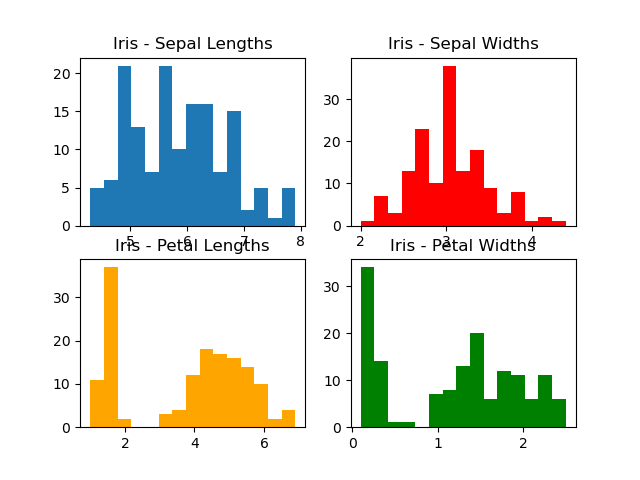
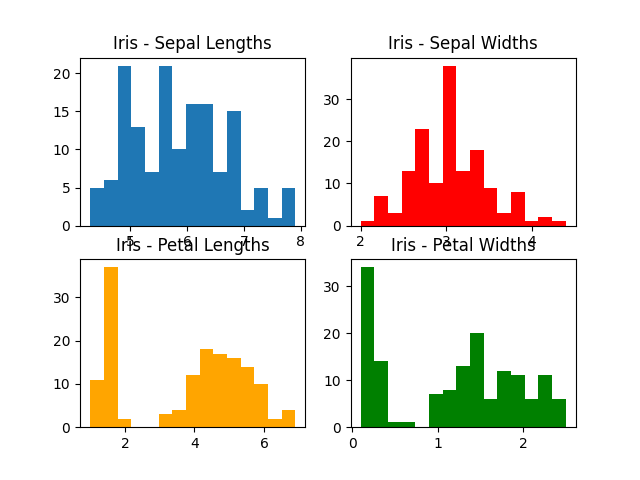
Push after SSH Key Change

diff --git a/analysis.py b/analysis.py
@@ -1,4 +1,4 @@
-# Small Python program to analsyse the variables with the Irish data set for the PandS Project
+# Small Python program to analsyse the variables within the Irish data set for the PandS Project
 # The file created in the output of this program will be called analysis.py and contains a basic summary for each variable
 
 # Author: Brendan Heeney
@@ -8,20 +8,20 @@ import numpy as np
 import matplotlib.pyplot as plt
 import sys
 
-# Importing the Data 
+# Importing the Data - I have a copy of the iris dataset saved in .csv format in my current directory
 
-df = pd.read_csv('iris.csv')
+df = pd.read_csv('iris.csv')   # read_csv will read in the csv file containing the Iris dataset
 
-original_stdout = sys.stdout  
+original_stdout = sys.stdout   # this is telling Python that it needs to find the stdout using the sys module
  
-with open('SummaryOfVariables.txt', 'w') as f:
-    sys.stdout = f 
+with open('SummaryOfVariables.txt', 'w') as f:     # this is creating a new file that we can write to and declaring it as the variable f
+    sys.stdout = f                                  # changes the standard output to the new file which we have created
 
 
-    print("Summary of Variables \n\n")
+    print("Summary of Variables \n\n")          # The \n tells Python to move to next line in the output
 
 
-    print("Variable is petallength")
+    print("Variable = petallength")
     plc = df["petallength"].count()
     print("The number of rows is {}".format(plc))
     typepl = df["petallength"].dtypes
@@ -83,33 +83,46 @@ with open('SummaryOfVariables.txt', 'w') as f:
     print("The count of the Iris-versicolor species is {}".format(countsetosa))
 
 
-    # Reset the standard output
-    sys.stdout = original_stdout 
+    
+    sys.stdout = original_stdout                # Resets the standard output
  
 
 
-plt.subplot(2,2,1)
 
-plt.hist(df['sepallength'], bins = 15)
+
+plt.hist(df['sepallength'])
 
 plt.title('Iris - Sepal Lengths')
 
-plt.subplot(2,2,2)
+plt.savefig("SepalLength.png")
 
-plt.hist(df['sepalwidth'], bins = 15, color = 'red')
+plt.clf()               # the plt.clf is required in order to keep the histrograms completely separate when saving them to files 
+
+plt.hist(df['sepalwidth'])
 
 plt.title('Iris - Sepal Widths')
 
-plt.subplot(2,2,3)
+plt.savefig("SepalWidth.png")
 
-plt.hist(df['petallength'], bins = 15, color = 'orange')
+plt.clf()
+
+plt.hist(df['petallength'])
 
 plt.title('Iris - Petal Lengths')
 
-plt.subplot(2,2,4)
+plt.savefig("PetalLength.png")
 
-plt.hist(df['petalwidth'], bins = 15, color = 'green')
+plt.clf()
+
+plt.hist(df['petalwidth'])
 
 plt.title('Iris - Petal Widths')
 
-plt.savefig("HistogramsOfVariables.png")
+plt.savefig("PetalWidth.png")
+
+plt.clf()
+
+plt.scatter(df['petallength'], df['petalwidth'])
+
+plt.savefig("PetalScatter.png")
+

diff --git a/playWithIris.py b/playWithIris.py
@@ -139,3 +139,37 @@ plt.xlabel("Sepal Length")
 plt.ylabel("Count")
 plt.savefig('test1.png')
 '''
+"""
+plt.hist(df['sepallength'], bins = 15)
+
+plt.title('Iris - Sepal Lengths')
+
+plt.savefig("SepalLength.png")
+
+plt.subplot(2,2,1)
+
+plt.hist(df['sepallength'], bins = 15)
+
+plt.title('Iris - Sepal Lengths')
+
+plt.subplot(2,2,2)
+
+plt.hist(df['sepalwidth'], bins = 15, color = 'red')
+
+plt.title('Iris - Sepal Widths')
+
+plt.subplot(2,2,3)
+
+plt.hist(df['petallength'], bins = 15, color = 'orange')
+
+plt.title('Iris - Petal Lengths')
+
+plt.subplot(2,2,4)
+
+plt.hist(df['petalwidth'], bins = 15, color = 'green')
+
+plt.title('Iris - Petal Widths')
+
+plt.savefig("HistogramsOfVariables.png")
+
+"""

diff --git a/README.md b/README.md
@@ -1,6 +1,6 @@
 # pands-project
 
-# This is the readme file for the Programming and Scripting module Final Project for 2022
+# This is the README file for the Programming and Scripting Module Final Project for 2022
 
 Summary of the Project and what needs to be done:
 
@@ -38,7 +38,7 @@ Given the information I have gathered so far - I now believe I am in a position 
 
 Section 2 - Initial Analysis / Thoughts
 
-Before I start; I am asking myself what types of things do i want to or could could I find out about the data set and what learnings will I be able to state?
+Before I start; I am asking myself what types of things do I want to or could could I find out about the data set and what learnings will I be able to state?
 
 I will jot down these below and use them as I proceed through the analysis (I am keen to do this as I want to try put my own stamp on this instead of potentially being directed too much by the research / analysis available across the internet)
 
@@ -60,17 +60,21 @@ Secondly - I am going to try a Juypter Notebook as I feel this might be a better
 
 Section 4 - Analysis
 
+The analsys I am presenting will be primarily presented within a Jupyter Notebook while I will also have a small Python programme called analysis.py that will be used to supplement the Jupyter Notebook by creating further data and visual outputs.
 
-groupby.size
 
-https://pandas.pydata.org/docs/reference/api/pandas.core.groupby.GroupBy.size.html
 
-value_counts
 
-https://pandas.pydata.org/pandas-docs/stable/reference/api/pandas.DataFrame.value_counts.html
 
 
 
 [1] https://www.techopedia.com/definition/32880/iris-flower-data-set
 
-{2} https://archive.ics.uci.edu/ml/datasets/iris
+[2] https://archive.ics.uci.edu/ml/datasets/iris
+
+
+
+
+
+
+https://stackabuse.com/writing-to-a-file-with-pythons-print-function/
